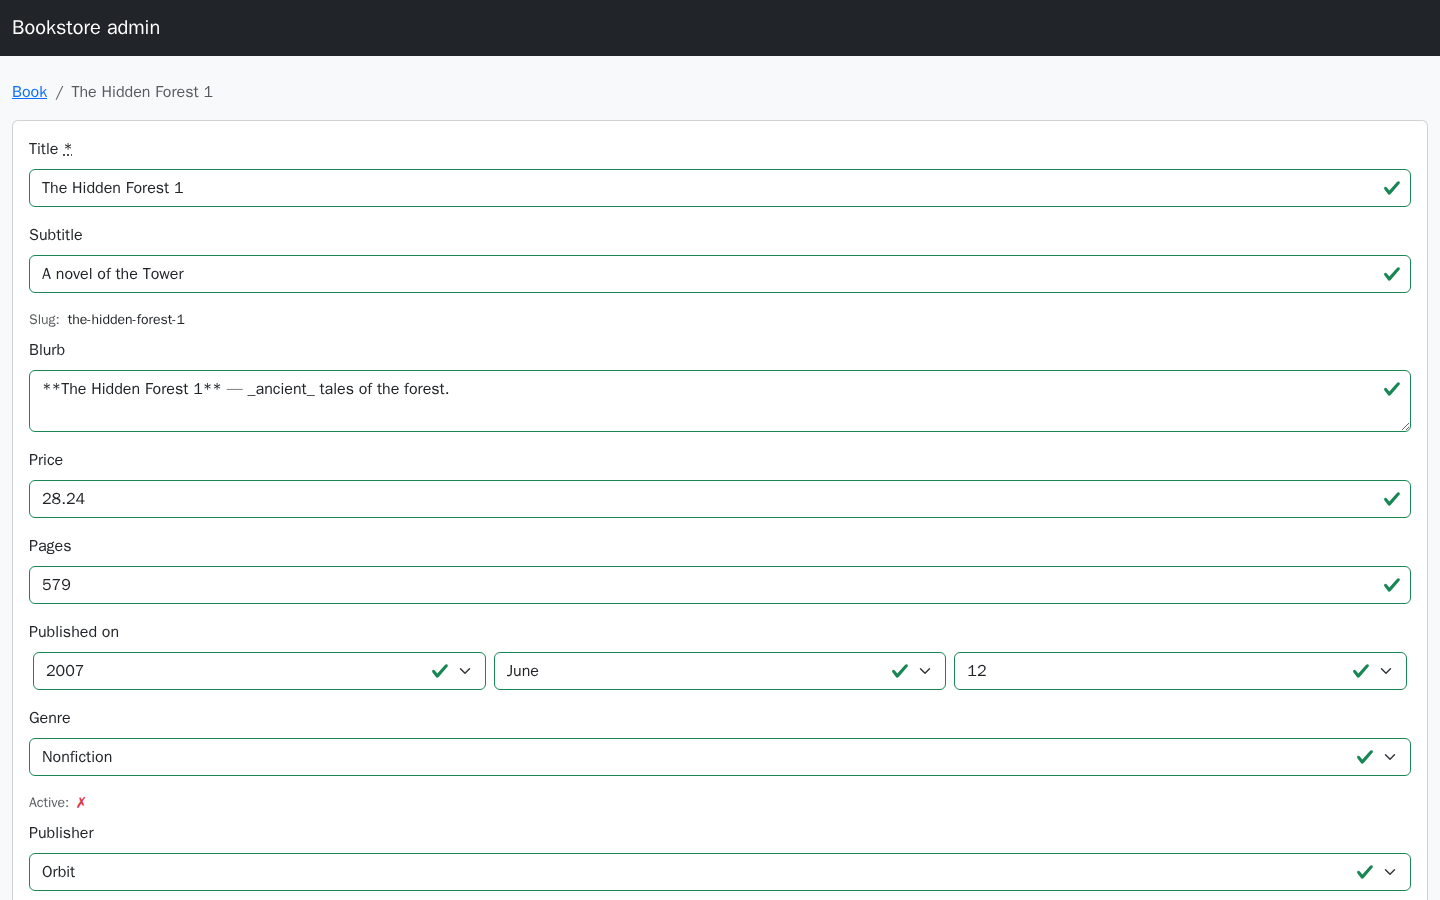
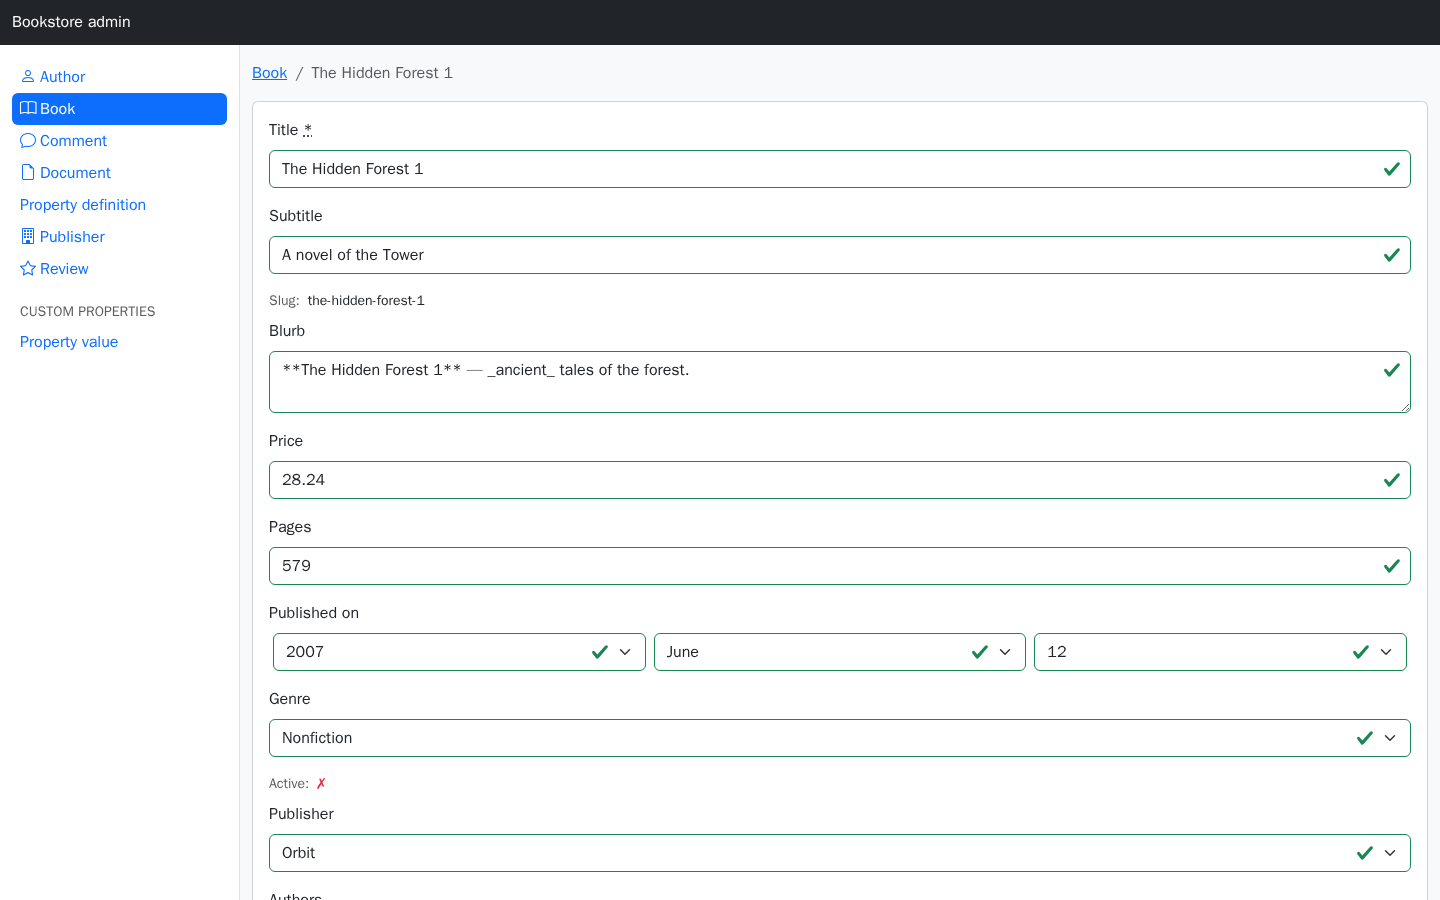
Admin: sidebar, groups, dashboard counts (#48)
A backend you can move around in: the bundled layout grows a sidebar built
from the registry (grouped, iconed, current model marked), the dashboard
counts records, and both drop models the ability will not let you index.

diff --git a/test/admin_engine_test.rb b/test/admin_engine_test.rb
@@ -169,4 +169,63 @@ class AdminEngineTest < ActionDispatch::IntegrationTest
     assert_response :success
     assert_select 'th', text: /Purchase price/, count: 0
   end
+
+  # ── chrome ───────────────────────────────────────────────────────────────
+  test 'every page carries the sidebar, with the current model marked' do
+    get '/admin/books'
+
+    assert_response :success
+    assert_select '.crud-admin-nav a.active', text: /Book/
+    assert_select ".crud-admin-nav a[href='/admin/publishers']"
+    assert_select '.crud-admin-nav a.active', count: 1
+  end
+
+  test 'the sidebar groups models under their declared group' do
+    get '/admin'
+
+    assert_response :success
+    assert_select '.crud-admin-nav', text: /Custom properties/
+  end
+
+  test 'the dashboard counts the records' do
+    get '/admin'
+
+    assert_response :success
+    assert_select '.card', text: /Publisher\s*1/
+  end
+
+  test 'counts can be switched off' do
+    with_admin_config do |config|
+      config.allow_without_authentication!
+      config.counts = false
+      get '/admin'
+
+      assert_response :success
+      assert_select '.card .badge', count: 0
+    end
+  end
+
+  test 'a model the ability will not let you index is absent from the navigation' do
+    get '/admin'
+
+    assert_response :success
+    assert_select "a[href='/admin/property_definitions']", count: 0
+
+    post '/toggle_admin'
+    get '/admin'
+
+    assert_select "a[href='/admin/property_definitions']"
+  end
+
+  test 'the admin renders in the host layout when configured to' do
+    with_admin_config do |config|
+      config.allow_without_authentication!
+      config.layout = 'host_chrome'
+      get '/admin'
+
+      assert_response :success
+      assert_select '#host-chrome'
+      assert_select '.crud-admin-nav', count: 0
+    end
+  end
 end

diff --git a/app/controllers/crud_components/admin/application_controller.rb b/app/controllers/crud_components/admin/application_controller.rb
@@ -30,13 +30,34 @@ module CrudComponents
         render plain: error.message, status: :forbidden
       end
 
-      helper_method :admin_config, :admin_registry
+      helper_method :admin_config, :admin_registry, :admin_entries, :admin_entry_groups
 
       private
 
       def admin_config = CrudComponents::Admin.config
 
       def admin_registry = CrudComponents::Admin.registry
+
+      # The registered models this user may open at all.
+      def admin_entries
+        @admin_entries ||= admin_registry.entries.select { |entry| readable?(entry) }
+      end
+
+      def admin_entry_groups = admin_registry.groups(admin_entries)
+
+      def readable?(entry)
+        ability = admin_ability
+        ability.nil? || ability.can?(:index, entry.model)
+      end
+
+      # The entry's relation, narrowed by the ability when one can scope.
+      def admin_scope(entry)
+        scope = entry.scope
+        ability = cancan_ability
+        return scope unless ability && scope.respond_to?(:accessible_by)
+
+        scope.accessible_by(ability)
+      end
 
       def ensure_admin_gate_configured!
         return if admin_config.authorized_access_configured?

diff --git a/lib/crud_components/admin/registry.rb b/lib/crud_components/admin/registry.rb
@@ -21,8 +21,14 @@ module CrudComponents
       def registered?(model) = !self[model].nil?
 
       # Entries grouped for the sidebar: [group (nil = ungrouped), entries].
-      def groups
-        entries.group_by(&:group).sort_by { |group, _| [group_rank(group), group.to_s] }
+      def groups(list = entries)
+        list.group_by(&:group).sort_by { |group, _| [group_rank(group), group.to_s] }
+      end
+
+      # Where a group sits in the configured order; unlisted groups come last.
+      def group_rank(group)
+        position = Array(config.groups).index { |name| name.to_s == group.to_s }
+        position || Array(config.groups).size
       end
 
       def reload!
@@ -134,10 +140,7 @@ module CrudComponents
         list.sort_by { |entry| [group_rank(entry.group), entry.group.to_s, entry.label.to_s] }
       end
 
-      def group_rank(group)
-        position = Array(config.groups).index { |name| name.to_s == group.to_s }
-        position || Array(config.groups).size
-      end
+
     end
   end
 end

diff --git a/lib/crud_components/admin/view_helpers.rb b/lib/crud_components/admin/view_helpers.rb
@@ -8,10 +8,15 @@ module CrudComponents
         public_send("#{entry.route_key}_path")
       end
 
-      def admin_icon(name, **options)
+      def admin_icon(name, css_class: nil)
         return nil unless name
 
-        tag.i(nil, class: "#{CrudComponents.config.css.icon_prefix}#{name}", **options)
+        tag.i(nil, class: ["#{CrudComponents.config.css.icon_prefix}#{name}", css_class].compact.join(' '))
+      end
+
+      # Whether this entry is the one being looked at.
+      def admin_current_entry?(entry)
+        params[:crud_model].to_s == entry.name
       end
 
       def admin_title = CrudComponents::Admin.config.resolved_title

diff --git a/test/dummy/app/controllers/application_controller.rb b/test/dummy/app/controllers/application_controller.rb
@@ -3,8 +3,11 @@ class ApplicationController < ActionController::Base
 
   # A deliberately tiny can?-shaped "ability" — the gem integrates with
   # anything that quacks like this (CanCanCan in real apps).
-  def can?(action, _subject)
+  def can?(action, subject)
     return true if admin?
+    # Only admins may even open the property definitions — the admin UI drops a
+    # model you cannot :index from its sidebar and dashboard.
+    return false if action.to_sym == :index && subject == PropertyDefinition
 
     !%i[manage destroy].include?(action.to_sym)
   end

diff --git a/app/controllers/crud_components/admin/resources_controller.rb b/app/controllers/crud_components/admin/resources_controller.rb
@@ -53,13 +53,7 @@ module CrudComponents
         @model = @entry.model
       end
 
-      def base_scope
-        scope = @entry.scope
-        ability = cancan_ability
-        return scope unless ability && scope.respond_to?(:accessible_by)
-
-        scope.accessible_by(ability)
-      end
+      def base_scope = admin_scope(@entry)
 
       def set_record
         @record = find_record(base_scope, params[:id])

diff --git a/app/controllers/crud_components/admin/dashboard_controller.rb b/app/controllers/crud_components/admin/dashboard_controller.rb
@@ -3,7 +3,7 @@ module CrudComponents
     # The mount root: what there is to administer.
     class DashboardController < ApplicationController
       def show
-        @entries = admin_registry.entries
+        @counts = admin_entries.to_h { |entry| [entry.name, admin_scope(entry).count] } if admin_config.counts
       end
     end
   end

diff --git a/docs/admin.md b/docs/admin.md
@@ -179,10 +179,23 @@ Index pages paginate when a pagination gem is loaded — the relation is handed 
 `.per` if it responds to them, so kaminari and will_paginate both work and neither is a
 dependency. Without one, an index renders every row.
 
-`config.layout = 'application'` renders the admin inside your app's own chrome — the
-closest the admin gets to the gem's usual "not an island" posture. The bundled layout is a
-plain Bootstrap 5 shell with the sidebar, for apps that would rather keep the backend
-visually separate.
+### The layout and the sidebar
+
+The bundled layout is a plain Bootstrap 5 shell: a brand bar, a sidebar listing every
+registered model (grouped, iconed, current one marked) and the page. Its only assets are
+the two CDN stylesheets in `config.stylesheets` — swap them for your own, or point
+`config.layout` at a layout of yours and load whatever you already load.
+
+Two things to know when you do point it at your own layout:
+
+- **Render the sidebar yourself** if you want it — `render 'crud_components/admin/sidebar'`.
+  Most apps that go this route already have navigation and don't.
+- **Route helpers in that layout must go through `main_app`.** The admin renders inside an
+  isolated engine, so a bare `root_path` in your layout resolves against the *engine's*
+  routes and raises. `main_app.root_path` is the fix, and it is safe everywhere else too.
+
+The sidebar and the dashboard only list models the current ability lets you `:index`, so a
+model an operator may not open is not advertised to them.
 
 `only` is a directive rather than a filter: a model listed there is registered even if
 discovery would have skipped it, and the list is also the sidebar order. `admin false`
